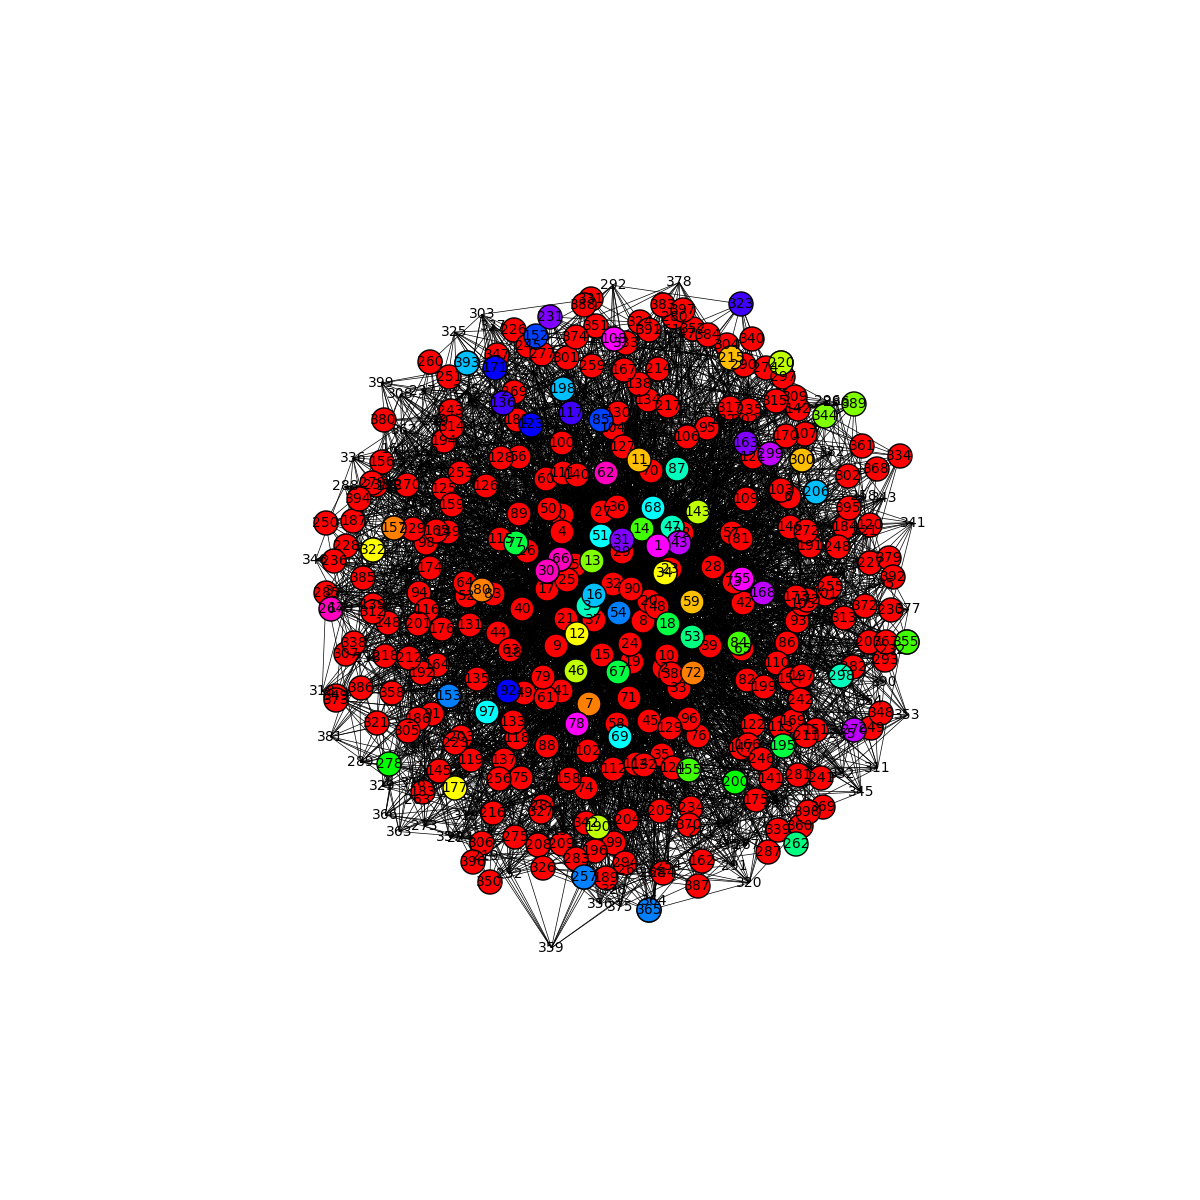
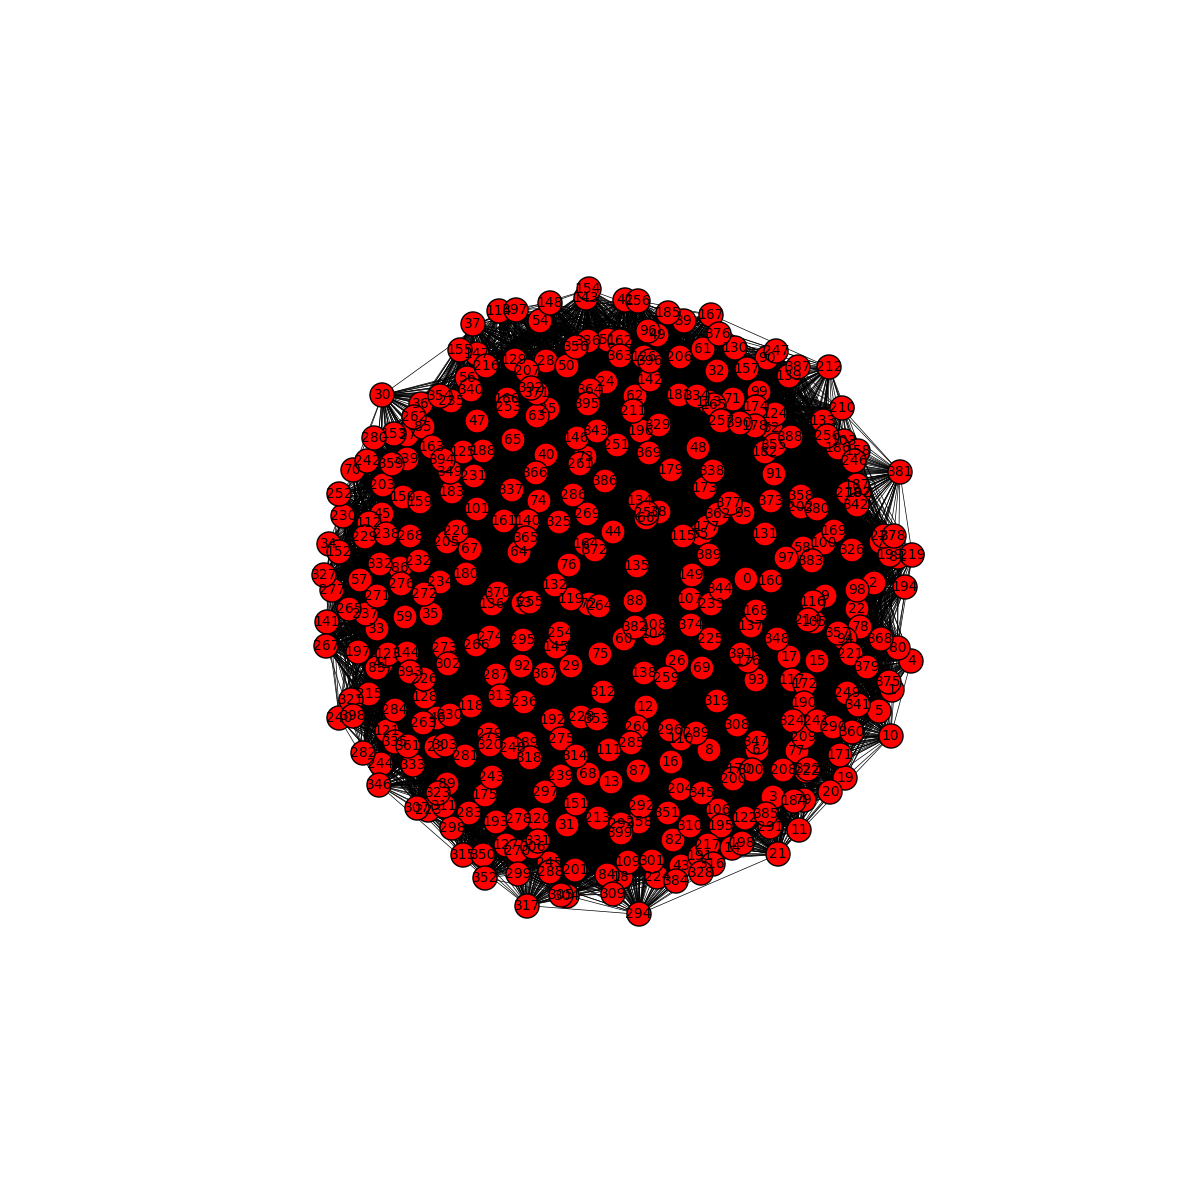
gaussian cluster model

Changed region(s): [[0.2467, 0.2158, 0.7708, 0.8017]]

diff --git a/social.py b/social.py
@@ -12,6 +12,9 @@ colors = ["#ff0000","#ff8000","#ffbf00","#ffff00","#bfff00","#80ff00","#40ff00",
 def generateBASyntheticGraph(n_nodes,n_edges): #generates a synthetic graph using the barabasi-albert model
 	return nx.barabasi_albert_graph(n_nodes,n_edges);
 
+def generateGaussian(n_nodes,avg_cluster_size, var_cluster_size, p_in, p_out): #generates a synthetic graph using the barabasi-albert model
+	return nx.gaussian_random_partition_graph(n_nodes, avg_cluster_size, var_cluster_size, p_in, p_out);
+
 def readSocialGraph(dataset,n_nodes): # reads a social graph from file. Format: <Node1_ID> <Node2_ID> <0> <weight(integer)>
 	G=nx.Graph()
 

diff --git a/main.py b/main.py
@@ -15,8 +15,9 @@ dataset = sys.argv[1];
 socialGraph = soc.readSocialGraph(dataset,n_nodes)
 soc.plotWeightedCommunities(socialGraph,W_lim,k_clique,n_nodes)
 
-socialGraph = soc.generateBASyntheticGraph(400, 12)
-soc.plotUnweightedCommunities(socialGraph,4,n_nodes)
+socialGraph = soc.generateGaussian(200,8, 2,0.4,0.1);
+#socialGraph = soc.generateBASyntheticGraph(400, 12)
+soc.plotUnweightedCommunities(socialGraph,5,n_nodes)
 
 		#plt.show() # display
 
